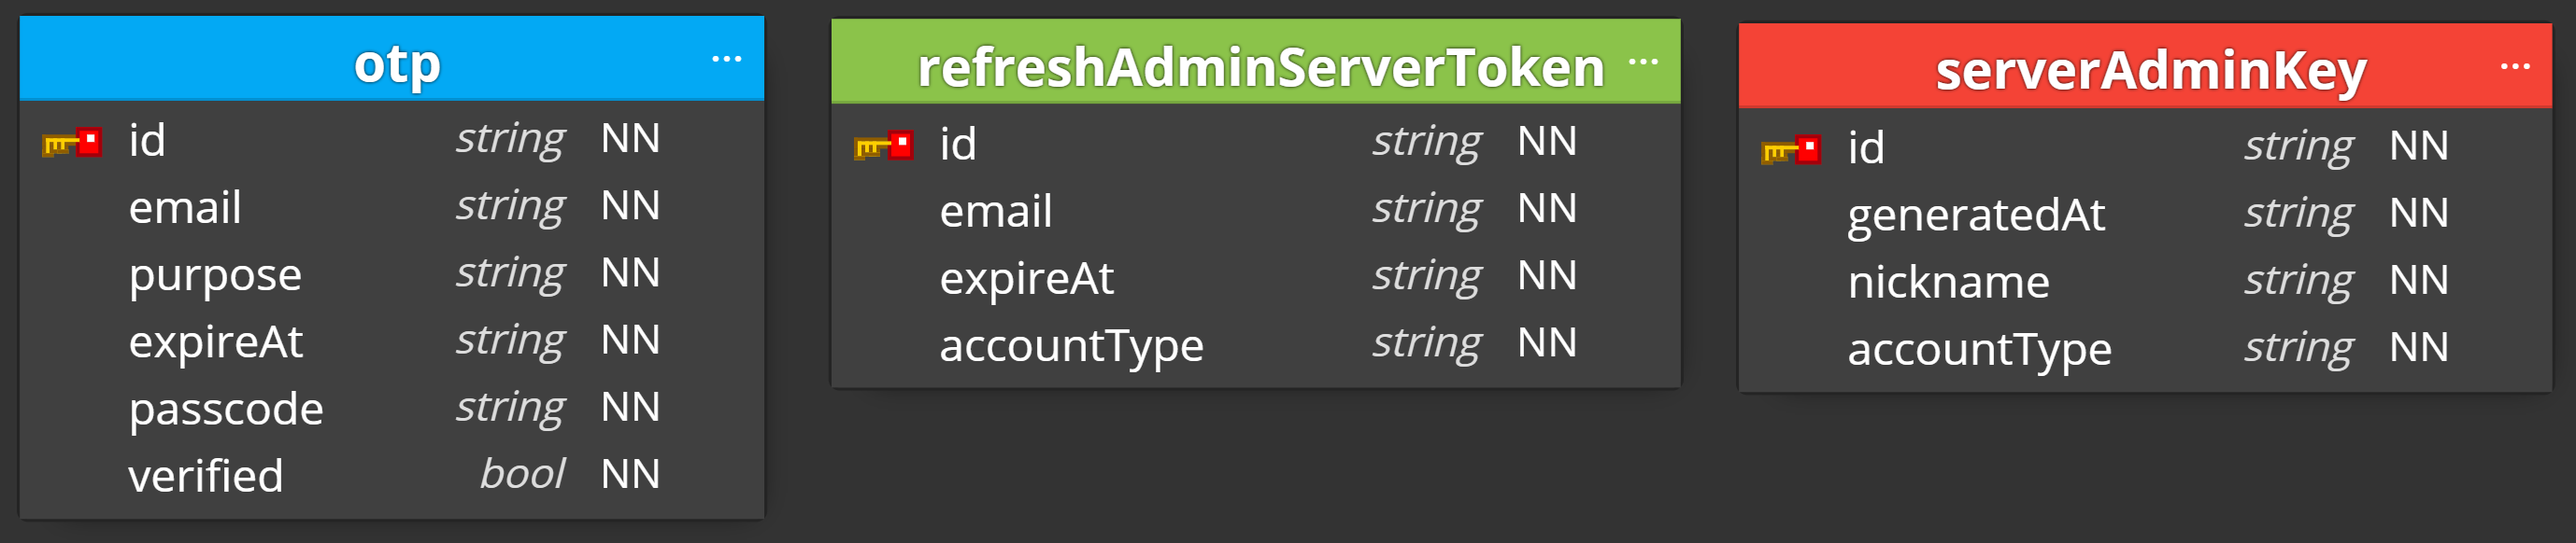
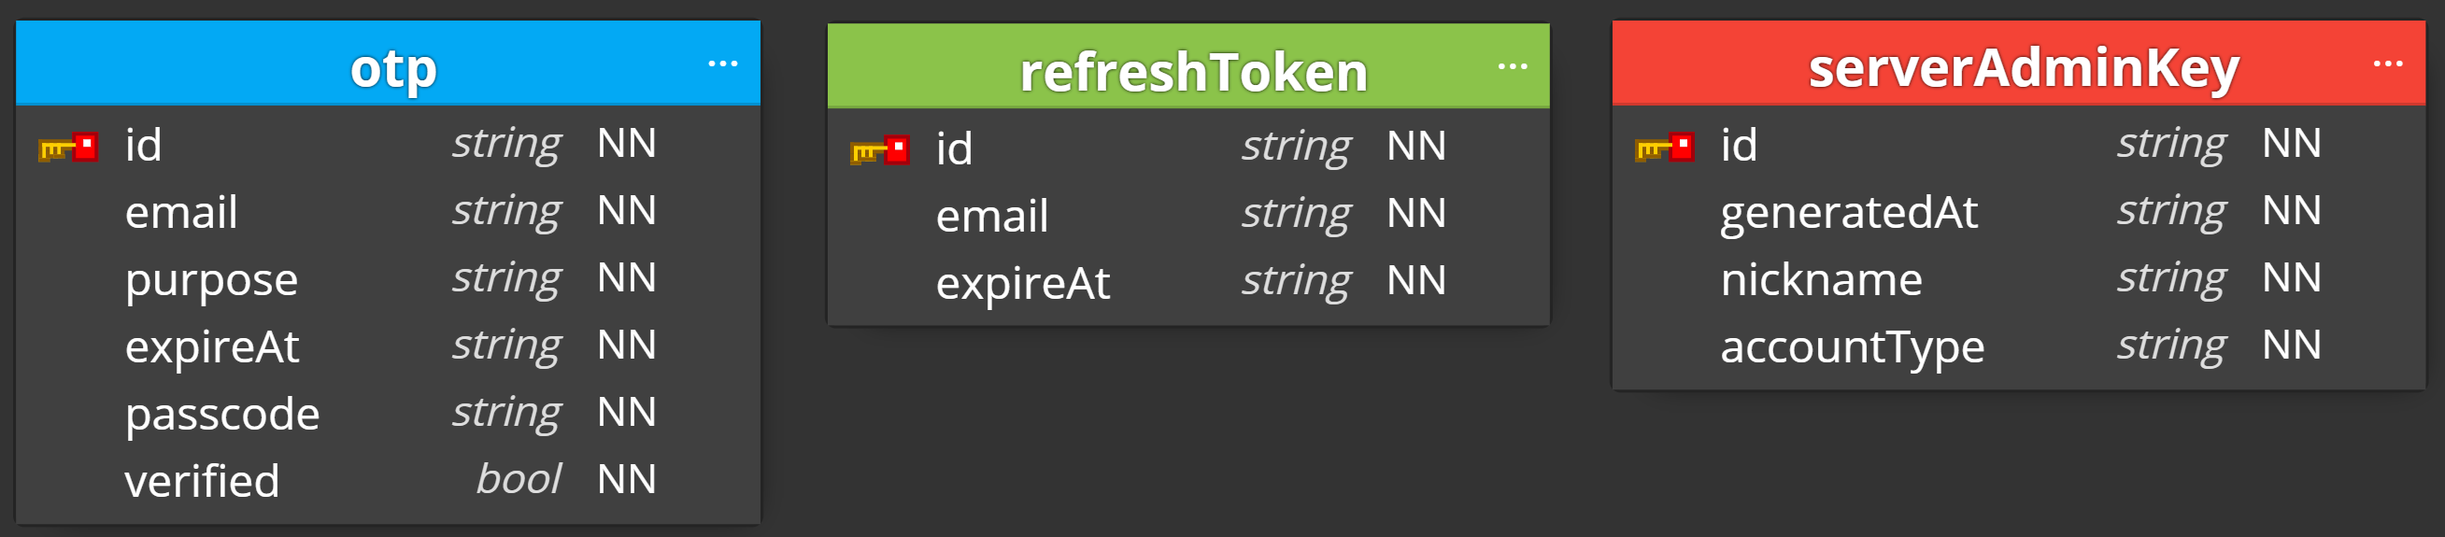
[POST: /auth/request] - Initiate OTP Request - Working: RefreshToken verified

diff --git a/src/functions/JWT/verifyRefreshToken.ts b/src/functions/JWT/verifyRefreshToken.ts
@@ -1,0 +1,67 @@
+/**
+ * Verifying Refresh Token (JSON Web Token)
+ *
+ * @author Hyecheol (Jerry) Jang <hyecheol123@gmail.com>
+ */
+
+import {Request} from 'express';
+import * as Cosmos from '@azure/cosmos';
+import * as jwt from 'jsonwebtoken';
+import RefreshTokenVerifyResult from '../../datatypes/Token/RefreshTokenVerifyResult';
+import AuthToken, {JWTObject} from '../../datatypes/Token/AuthToken';
+import UnauthenticatedError from '../../exceptions/UnauthenticatedError';
+import ForbiddenError from '../../exceptions/ForbiddenError';
+import RefreshToken from '../../datatypes/RefreshToken/RefreshToken';
+import HTTPError from '../../exceptions/HTTPError';
+
+export default async function verifyRefreshToken(
+  req: Request,
+  jwtRefreshKey: string,
+  dbClient: Cosmos.Database
+): Promise<RefreshTokenVerifyResult> {
+  if (!('X-REFRESH-TOKEN' in req.cookies)) {
+    throw new UnauthenticatedError();
+  }
+
+  let tokenContents: JWTObject;
+  try {
+    // Check validity of token
+    tokenContents = jwt.verify(req.cookies['X-REFRESH-TOKEN'], jwtRefreshKey, {
+      algorithms: ['HS512'],
+    }) as JWTObject;
+  } catch (e) {
+    throw new ForbiddenError();
+  }
+  if (tokenContents.type !== 'refresh') {
+    throw new ForbiddenError();
+  }
+
+  // Check token in DB
+  let dbRefreshToken;
+  try {
+    dbRefreshToken = await RefreshToken.read(
+      dbClient,
+      req.cookies['X-REFRESH-TOKEN']
+    );
+    // istanbul ignore if
+    if (dbRefreshToken.expireAt < new Date()) {
+      throw new UnauthenticatedError();
+    }
+  } catch (e) {
+    // istanbul ignore else
+    if ((e as HTTPError).statusCode === 404) {
+      throw new ForbiddenError();
+    } else {
+      throw e;
+    }
+  }
+
+  // If RefreshToken expires within 20 minute, we have to notify user
+  const expectedExpire = new Date();
+  expectedExpire.setMinutes(expectedExpire.getMinutes() + 20);
+  const willExpireSoon = new Date(dbRefreshToken.expireAt) < expectedExpire;
+
+  delete tokenContents.iat;
+  delete tokenContents.exp;
+  return {content: tokenContents as AuthToken, aboutToExpire: willExpireSoon};
+}

diff --git a/src/routes/authentication.ts b/src/routes/authentication.ts
@@ -10,7 +10,11 @@ import ServerAdminKey from '../datatypes/ServerAdminKey/ServerAdminKey';
 import HTTPError from '../exceptions/HTTPError';
 import UnauthenticatedError from '../exceptions/UnauthenticatedError';
 import ForbiddenError from '../exceptions/ForbiddenError';
+import BadRequestError from '../exceptions/BadRequestError';
+import RefreshTokenVerifyResult from '../datatypes/Token/RefreshTokenVerifyResult';
 import createServerAdminToken from '../functions/JWT/createServerAdminToken';
+import {validateInitiateOTPRequest} from '../functions/inputValidator/validateInitiateOTPRequest';
+import verifyRefreshToken from '../functions/JWT/verifyRefreshToken';
 
 // Path: /auth
 const authenticationRouter = express.Router();
@@ -20,9 +24,34 @@ authenticationRouter.post('/request', async (req, res, next) => {
   const dbClient: Cosmos.Database = req.app.locals.dbClient;
 
   try {
-    // TODO: Check Origin/applicationKey
-    // TODO: Check requestBody
-    // TODO: Check refreshToken if needed (sudo purpose)
+    // Check Origin/applicationKey
+    if (
+      req.header('Origin') !== req.app.get('webpageOrigin') &&
+      !req.app.get('applicationKey').includes(req.header('X-APPLICATION-KEY'))
+    ) {
+      throw new ForbiddenError();
+    }
+
+    // Check requestBody
+    type InitiateOTPRequest = {
+      email: string;
+      purpose: 'signup' | 'signin' | 'sudo';
+    };
+    const initiateOTPRequestBody: InitiateOTPRequest = req.body;
+    if (!validateInitiateOTPRequest(initiateOTPRequestBody)) {
+      throw new BadRequestError();
+    }
+
+    // Check refreshToken if needed (sudo purpose)
+    let refreshTokenVerifyResult: RefreshTokenVerifyResult;
+    if (initiateOTPRequestBody.purpose === 'sudo') {
+      refreshTokenVerifyResult = await verifyRefreshToken(
+        req,
+        req.app.get('jwtRefreshKey'),
+        dbClient
+      );
+    }
+
     // TODO: Retrieve user information (USER API)
     // TODO: DB Operation
     // TODO: Send Code

diff --git a/src/datatypes/RefreshToken/RefreshToken.ts b/src/datatypes/RefreshToken/RefreshToken.ts
@@ -1,0 +1,69 @@
+/**
+ * Define type and CRUD methods for each refreshToken entry
+ *
+ * @author Hyecheol (Jerry) Jang <hyecheol123@gmail.com>
+ */
+
+import * as Cosmos from '@azure/cosmos';
+import NotFoundError from '../../exceptions/NotFoundError';
+
+// DB Container id
+const REFRESH_TOKEN = 'refreshToken';
+
+export default class RefreshToken {
+  id: string;
+  email: string;
+  expireAt: Date | string;
+
+  /**
+   * Constructor for RefreshToken Object
+   *
+   * @param {string} id unique id of object, indicating JWT token
+   * @param {string} email token owner's email
+   * @param {Date} expireAt time that token will be expires
+   */
+  constructor(id: string, email: string, expireAt: Date) {
+    this.id = id;
+    this.email = email;
+    this.expireAt = expireAt;
+  }
+
+  /**
+   * Create new entry in RefreshToken container
+   *
+   * @param {Cosmos.Database} dbClient DB Client (Cosmos Database)
+   * @param {RefreshToken} refreshTokenObj refreshToken information
+   */
+  static async create(
+    dbClient: Cosmos.Database,
+    refreshTokenObj: RefreshToken
+  ): Promise<void> {
+    refreshTokenObj.expireAt = (refreshTokenObj.expireAt as Date).toISOString();
+    await dbClient
+      .container(REFRESH_TOKEN)
+      .items.create<RefreshToken>(refreshTokenObj);
+  }
+
+  /**
+   * Retrieve RefreshToken data with given key
+   *
+   * @param {Cosmos.Database} dbClient DB Client (Cosmos Database)
+   * @param {string} token JWT refreshToken
+   */
+  static async read(
+    dbClient: Cosmos.Database,
+    token: string
+  ): Promise<RefreshToken> {
+    const dbOps = await dbClient.container(REFRESH_TOKEN).item(token).read();
+
+    if (dbOps.statusCode === 404) {
+      throw new NotFoundError();
+    }
+
+    return new RefreshToken(
+      token,
+      dbOps.resource.email,
+      new Date(dbOps.resource.expireAt)
+    );
+  }
+}

diff --git a/src/exceptions/BadRequestError.ts b/src/exceptions/BadRequestError.ts
@@ -1,0 +1,21 @@
+/**
+ * Define 400 Bad Request Error based on HTTPError
+ * Contains HTTP Status code and message for commonly caused
+ *     400 Bad Request Error
+ *
+ * @author Hyecheol (Jerry) Jang <hyecheol123@gmail.com>
+ */
+
+import HTTPError from './HTTPError';
+
+/**
+ * BadRequest Error is a type of HTTPError, of which status code is 400
+ */
+export default class BadRequestError extends HTTPError {
+  /**
+   * Constructor for BadRequest Error
+   */
+  constructor() {
+    super(400, 'Bad Request');
+  }
+}

diff --git a/src/functions/inputValidator/validateInitiateOTPRequest.ts b/src/functions/inputValidator/validateInitiateOTPRequest.ts
@@ -1,0 +1,18 @@
+/**
+ * Validate user input - Initiate OTP Request
+ *
+ * @author Hyecheol (Jerry) Jang <hyecheol123@gmail.com>
+ */
+
+import Ajv from 'ajv';
+import addFormats from 'ajv-formats';
+
+export const validateInitiateOTPRequest = addFormats(new Ajv()).compile({
+  type: 'object',
+  properties: {
+    email: {type: 'string', format: 'email'},
+    purpose: {type: 'string', enum: ['signup', 'signin', 'sudo']},
+  },
+  required: ['email', 'purpose'],
+  additionalProperties: false,
+});

diff --git a/src/datatypes/Token/RefreshTokenVerifyResult.ts b/src/datatypes/Token/RefreshTokenVerifyResult.ts
@@ -1,0 +1,17 @@
+/**
+ * Define type for the objects that contains the result
+ * for RefreshToken verification
+ *
+ * @author Hyecheol (Jerry) Jang <hyecheol123@gmail.com>
+ */
+
+import AuthToken from './AuthToken';
+
+/**
+ * Interface to define RefreshToken's verification result
+ * When RefreshToken is about to expire, aboutToExpire flag is set.
+ */
+export default interface RefreshTokenVerifyResult {
+  content: AuthToken;
+  aboutToExpire: boolean;
+}

diff --git a/test/testCases/auth/post.login.test.ts b/test/testCases/auth/post.login.test.ts
@@ -11,7 +11,7 @@ import * as Cosmos from '@azure/cosmos';
 import TestConfig from '../../TestConfig';
 import TestEnv from '../../TestEnv';
 import ExpressServer from '../../../src/ExpressServer';
-import AuthToken from '../../../src/datatypes/AuthToken';
+import AuthToken from '../../../src/datatypes/Token/AuthToken';
 
 describe('POST /auth/login - Get Server/Admin Authentication Token (Server Use Only)', () => {
   let testEnv: TestEnv;

diff --git a/src/functions/utils/newServerAdminKey.ts b/src/functions/utils/newServerAdminKey.ts
@@ -9,7 +9,7 @@ import * as Cosmos from '@azure/cosmos';
 import {BinaryLike} from 'crypto';
 import ServerConfigTemplate from '../../ServerConfigTemplate';
 import ServerAdminKey from '../../datatypes/ServerAdminKey/ServerAdminKey';
-import {AccountType} from '../../datatypes/AuthToken';
+import {AccountType} from '../../datatypes/Token/AuthToken';
 import checkAccountType from '../inputValidator/checkAccountType';
 
 /**

diff --git a/test/TestEnv.ts b/test/TestEnv.ts
@@ -15,7 +15,7 @@ import * as Cosmos from '@azure/cosmos';
 import TestConfig from './TestConfig';
 import ExpressServer from '../src/ExpressServer';
 import ServerAdminKey from '../src/datatypes/ServerAdminKey/ServerAdminKey';
-import {AccountType} from '../src/datatypes/AuthToken';
+import {AccountType} from '../src/datatypes/Token/AuthToken';
 
 /**
  * Class for Test Environment

diff --git a/src/datatypes/ServerAdminKey/ServerAdminKey.ts b/src/datatypes/ServerAdminKey/ServerAdminKey.ts
@@ -8,7 +8,7 @@ import * as Cosmos from '@azure/cosmos';
 import HTTPError from '../../exceptions/HTTPError';
 import NotFoundError from '../../exceptions/NotFoundError';
 import MetaData from './MetaData';
-import {AccountType} from '../AuthToken';
+import {AccountType} from '../Token/AuthToken';
 
 // DB Container id
 const SERVER_ADMIN_KEY = 'serverAdminKey';

diff --git a/src/functions/JWT/verifyServerAdminToken.ts b/src/functions/JWT/verifyServerAdminToken.ts
@@ -5,7 +5,7 @@
  */
 
 import * as jwt from 'jsonwebtoken';
-import AuthToken, {JWTObject} from '../../datatypes/AuthToken';
+import AuthToken, {JWTObject} from '../../datatypes/Token/AuthToken';
 import ForbiddenError from '../../exceptions/ForbiddenError';
 import checkAccountType from '../inputValidator/checkAccountType';
 

diff --git a/src/functions/JWT/createServerAdminToken.ts b/src/functions/JWT/createServerAdminToken.ts
@@ -5,7 +5,7 @@
  */
 
 import * as jwt from 'jsonwebtoken';
-import AuthToken, {AccountType} from '../../datatypes/AuthToken';
+import AuthToken, {AccountType} from '../../datatypes/Token/AuthToken';
 
 /**
  * Method to generate a new serverAdminToken
